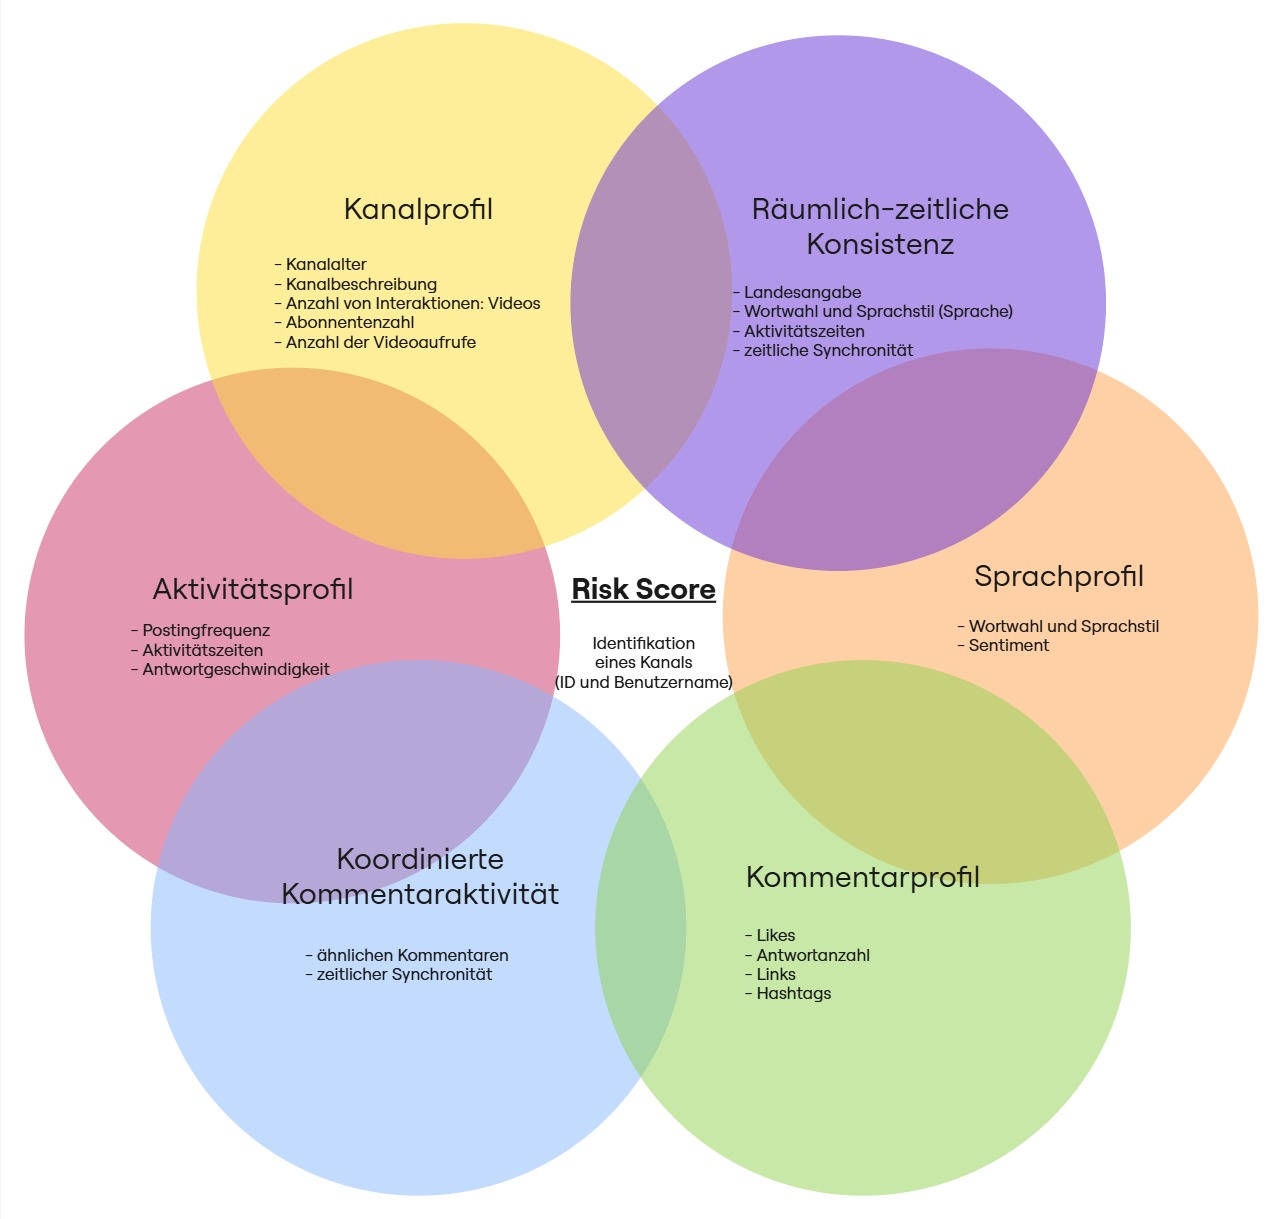
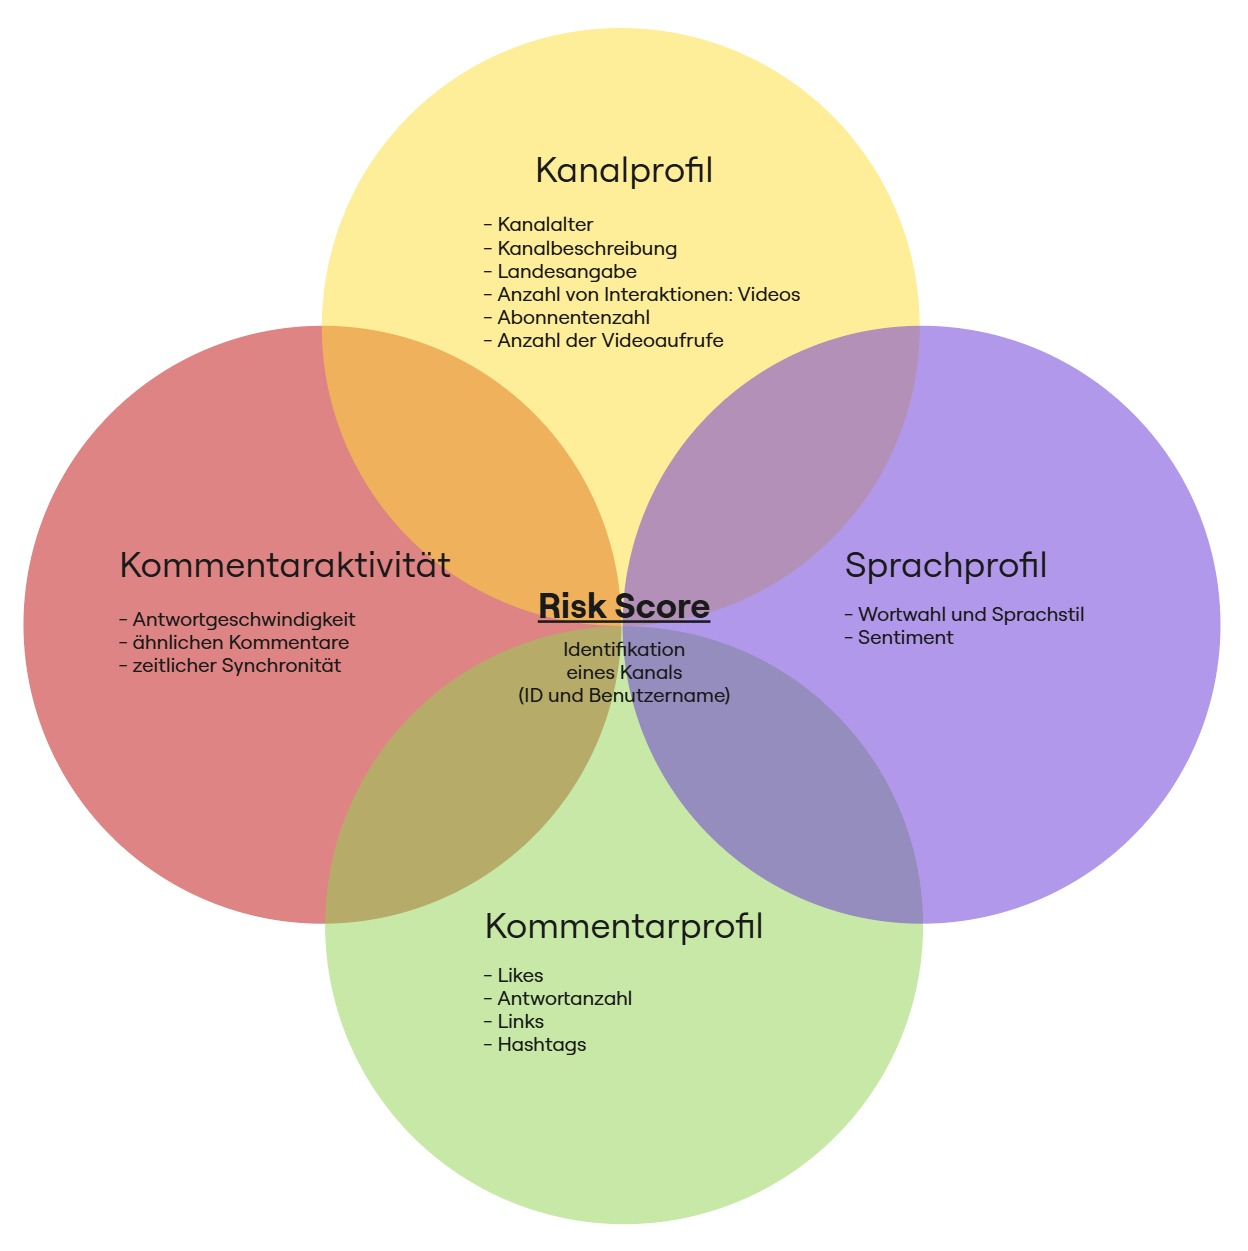
updated 02-poc and 03-adr

diff --git a/docs/ADR/03-adr-merkmalsmodell.md b/docs/ADR/03-adr-merkmalsmodell.md
@@ -1,7 +1,7 @@
 # 03-ADR: Merkmalsmodell
 
 **Status:** entschieden
-**Datum:** 12-08-2026
+**Datum:** 20-08-2026
 
 ---
 
@@ -17,7 +17,7 @@ Ziel ist die Definition eines Merkmalsmodells, das auf den verfügbaren Plattfor
 
 - Verwendung einzelner Merkmale
 - Verwendung kombinierter Merkmale
-- Sowohl einzelne als auch kombinierte Merkmalen
+- Kombination von Merkmalen mit zusätzlichen Kontextinformationen
 
 ---
 
@@ -25,9 +25,9 @@ Ziel ist die Definition eines Merkmalsmodells, das auf den verfügbaren Plattfor
 
 Für den MVP wird ein Merkmalsmodell verwendet, das auf den in PoC 02 identifizierten und für die prototypische Umsetzung geeigneten Merkmalen basiert.
 
-Während einige Merkmale bereits für sich allein Hinweise auf automatisierte Aktivitäten liefern können, entfalten andere ihre Aussagekraft erst durch die Kombination mehrerer Informationen. Ziel ist es, mehrere schwache Hinweise zu aussagekräftigeren Indikatoren automatisierter Aktivitäten zusammenzuführen. Daher umfasst das Merkmalsmodell sowohl Einzelmerkmale als auch kombinierte Merkmale.
+Kommentarinteraktionen bilden den Ausgangspunkt der Analyse. Die Merkmale können dabei den Kommentar selbst, den kommentierenden Kanal oder die Beziehung zu anderen beobachtbaren Kommentaren beschreiben. Merkmale mit einer nachvollziehbaren Beziehung zueinander werden zu kombinierten Merkmalen zusammengeführt, dadurch sollen mehrere schwache Hinweise zu aussagekräftigeren Indikatoren automatisierter Aktivitäten verbunden werden. Andere Merkmale können als zusätzliche Kontextinformationen in die Bewertung einfließen.
 
-Für den MVP werden zunächst folgende Einzelmerkmale und Merkmalskombinationen betrachtet:
+Für den MVP werden zunächst folgende Kombinationen betrachtet:
 
 ---
 
@@ -44,24 +44,12 @@ Kombination aus:
 
 - Kanalalter
 - Kanalbeschreibung
+- Landesangabe
 - Anzahl von Interaktionen: Videos
 - Abonnentenzahl
 - Anzahl der Videoaufrufe
 
 Ziel ist die Einordnung der Glaubwürdigkeit eines Kanals.
-
----
-
-**Räumlich-zeitliche Konsistenz**
-
-Kombination aus:
-
-- Landesangabe
-- Wortwahl und Sprachstil (Sprache)
-- Aktivitätszeiten
-- zeitliche Synchronität
-
-Ziel ist die Identifikation von Widersprüchen oder ungewöhnlichen Aktivitätsmustern.
 
 ---
 
@@ -85,28 +73,19 @@ Kombination aus:
 - Links
 - Hashtags
 
-Ziel ist die Analyse von Auffälligkeiten im Interaktionsvershalten.
+Ziel ist die Analyse von Auffälligkeiten im Interaktionsverhalten.
 
 ---
 
-**Aktivitätsprofil**
-
-- Postingfrequenz
-- Aktivitätszeiten
-- Antwortgeschwindigkeit
-
-Ziel ist die Analyse zeitlicher Aktivitätsmuster und des Antwortverhaltens.
-
----
-
-**Koordinierte Kommentaraktivität**
+**Kommentaraktivität**
 
 Kombination aus:
 
+- Antwortgeschwindigkeit
 - ähnlichen Kommentaren
 - zeitlicher Synchronität
 
-Ziel ist die Identifikation möglicher koordinierter Interaktionen zwischen mehreren Kanälen.
+Ziel ist die Identifikation zeitlich und inhaltlich auffälliger Interaktionen zwischen Kommentaren.
 
 ---
 
@@ -131,4 +110,4 @@ Das vollständige Merkmalsmodell ist nach Gruppen sortiert im Artefakt [03-Merkm
 
 ## Probleme
 
-Einzelne Merkmale besitzen häufig nur eine begrenzte Aussagekraft. Dieser Einschränkung wird begegnet, indem mehrere Einzelmerkmale zu Analysemerkmalen kombiniert werden. Die konkrete Gewichtung der Analysemerkmale erfolgt im nachfolgenden [ADR zum heuristischen Risk Score](/docs/ADR/04-adr-risc-score.md).
+Einzelne Merkmale besitzen häufig nur eine begrenzte Aussagekraft. Dieser Einschränkung wird begegnet, indem mehrere Einzelmerkmale zu Analysemerkmalen kombiniert werden. Die konkrete Bewertung, sowie Gewichtung der Merkmale erfolgt im nachfolgenden [ADR zum heuristischen Risk Score](/docs/ADR/04-adr-risc-score.md).

diff --git a/docs/PoC/02-poc-merkmalsanalyse.md b/docs/PoC/02-poc-merkmalsanalyse.md
@@ -130,7 +130,7 @@ Die Ergebnisse der Merkmalsanalyse sind in einer [Vergleichsmatrix](/docs/PoC/Ar
 
 Technische und semantische Merkmale können überwiegend mit geringem bis mittlerem Aufwand über die YouTube API extrahiert werden. Insbesondere Kanalinformationen, Kommentarinhalte sowie Zeitstempel stehen strukturiert zur Verfügung und bilden eine geeignete Grundlage für die heuristische Bewertung.
 
-Verhaltensbasierte Merkmale wie Posting-Frequenzen oder Aktivitätsmuster sind grundsätzlich analysierbar, können aufgrund der fehlenden Interaktionshistorie einzelner Nutzer jedoch nur eingeschränkt betrachtet werden. Clientseitige Merkmale wie Tippgeschwindigkeit oder Scrollverhalten stehen nicht zur Verfügung.
+Verhaltensbasierte Merkmale wie Posting-Frequenz und Aktivitätsmuster werden für den MVP ausgeschlossen, da aufgrund der fehlenden vollständigen Interaktionshistorie einzelner Nutzer keine Aussage über das allgemeine Nutzerverhalten möglich ist. Clientseitige Merkmale wie Tippgeschwindigkeit oder Scrollverhalten stehen nicht zur Verfügung.
 
 Koordinative Merkmale erfordern eine aufwendigere Analyse mehrerer Kommentare, Accounts und zeitlicher Zusammenhänge. Die Identifikation koordinierter Aktivitäten kann daher nur indirekt über Muster wie zeitliche Synchronität oder inhaltliche Ähnlichkeiten erfolgen.
 
